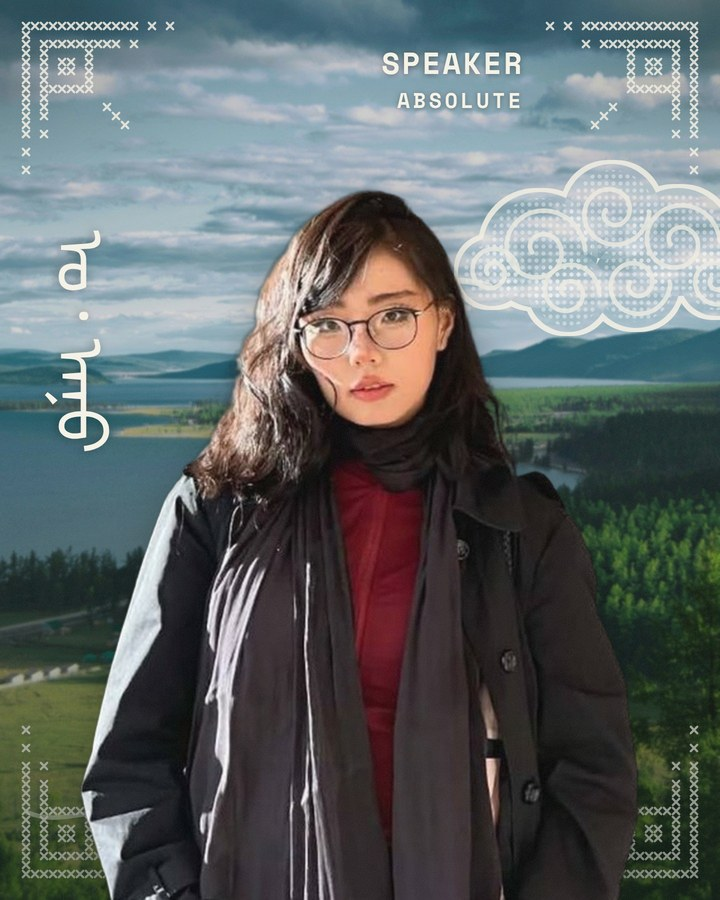
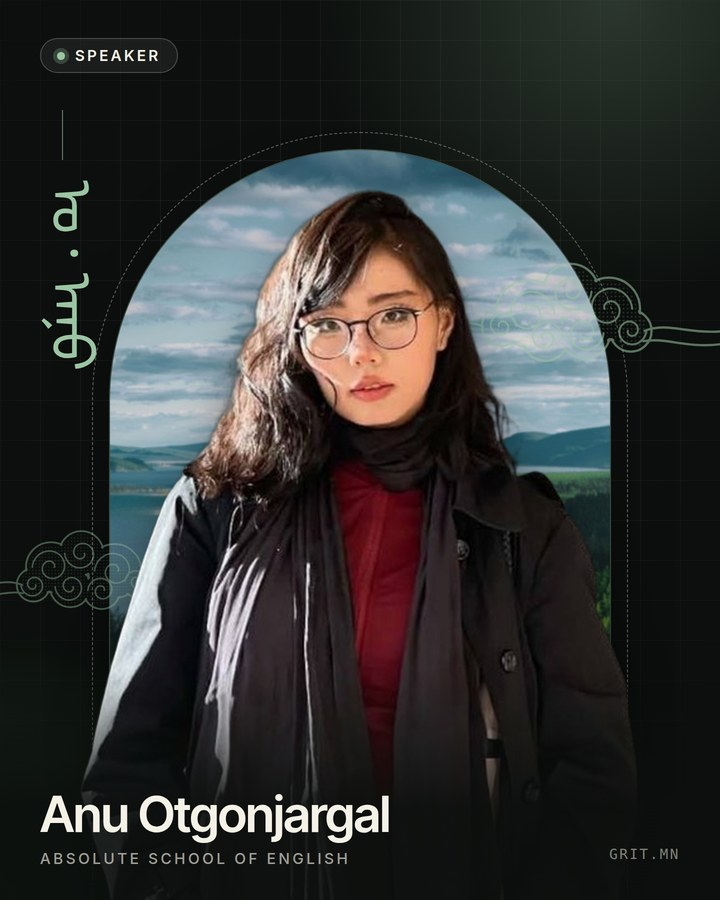
Team and speaker cards: new site-matched design (dark green panel, arch window, Inter Tight name, role pill)
Claude-Session: https://claude.ai/code/session_015w2YeaPuoH2UidzmstFP66

diff --git a/index.html b/index.html
@@ -273,7 +273,7 @@
       <div class="marquee speakers-row" data-reveal>
         <div class="speaker">
           <div class="speaker__photo">
-            <img src="assets/img/speaker-urangoo.jpg?v=6" alt="Urangoo Shinedelger" loading="lazy">
+            <img src="assets/img/speaker-urangoo.jpg?v=10" alt="Urangoo Shinedelger" loading="lazy">
             <span class="speaker__school"><img src="assets/img/schools/stanford.svg" alt="Stanford University"></span>
           </div>
           <p class="speaker__name">Urangoo Shinedelger</p>
@@ -281,7 +281,7 @@
         </div>
         <div class="speaker">
           <div class="speaker__photo">
-            <img src="assets/img/speaker-garid.jpg?v=6" alt="Garid Mendbayar" loading="lazy">
+            <img src="assets/img/speaker-garid.jpg?v=10" alt="Garid Mendbayar" loading="lazy">
             <span class="speaker__school"><img src="assets/img/schools/vanderbilt.png?v=3" alt="Vanderbilt University"></span>
           </div>
           <p class="speaker__name">Garid Mendbayar</p>
@@ -289,7 +289,7 @@
         </div>
         <div class="speaker">
           <div class="speaker__photo">
-            <img src="assets/img/speaker-bayarmaa.jpg?v=6" alt="Bayarmaa Altankhishig" loading="lazy">
+            <img src="assets/img/speaker-bayarmaa.jpg?v=10" alt="Bayarmaa Altankhishig" loading="lazy">
             <span class="speaker__school"><img src="assets/img/schools/bocconi.png" alt="Bocconi University"></span>
           </div>
           <p class="speaker__name">Bayarmaa Altankhishig</p>
@@ -297,7 +297,7 @@
         </div>
         <div class="speaker">
           <div class="speaker__photo">
-            <img src="assets/img/speaker-anar.jpg?v=6" alt="Anar Battogtokh" loading="lazy">
+            <img src="assets/img/speaker-anar.jpg?v=10" alt="Anar Battogtokh" loading="lazy">
             <span class="speaker__school"><img src="assets/img/schools/cornell.svg" alt="Cornell University"></span>
           </div>
           <p class="speaker__name">Anar Battogtokh</p>
@@ -305,7 +305,7 @@
         </div>
         <div class="speaker">
           <div class="speaker__photo">
-            <img src="assets/img/speaker-tsolmon.jpg?v=6" alt="Tsolmon Baasantsogt" loading="lazy">
+            <img src="assets/img/speaker-tsolmon.jpg?v=10" alt="Tsolmon Baasantsogt" loading="lazy">
             <span class="speaker__school"><img src="assets/img/schools/yonsei.png?v=2" alt="Yonsei University"></span>
           </div>
           <p class="speaker__name">Tsolmon Baasantsogt</p>
@@ -313,7 +313,7 @@
         </div>
         <div class="speaker">
           <div class="speaker__photo">
-            <img src="assets/img/speaker-tulga.jpg?v=6" alt="Tulga Bayarnyam" loading="lazy">
+            <img src="assets/img/speaker-tulga.jpg?v=10" alt="Tulga Bayarnyam" loading="lazy">
             <span class="speaker__school"><img src="assets/img/schools/skku.png?v=2" alt="Sungkyunkwan University"></span>
           </div>
           <p class="speaker__name">Tulga Bayarnyam</p>
@@ -321,7 +321,7 @@
         </div>
         <div class="speaker">
           <div class="speaker__photo">
-            <img src="assets/img/speaker-anu.jpg?v=6" alt="Anu Otgonjargal" loading="lazy">
+            <img src="assets/img/speaker-anu.jpg?v=10" alt="Anu Otgonjargal" loading="lazy">
             <span class="speaker__school speaker__school--fill"><img src="assets/img/schools/absolute.png" alt="Absolute School of English"></span>
           </div>
           <p class="speaker__name">Anu Otgonjargal</p>
@@ -337,49 +337,49 @@
       </div>
       <div class="marquee" data-reveal>
         <a class="member" href="member.html?m=bayarmagnai">
-          <div class="member__photo"><img src="assets/img/team-bayarmagnai.jpg?v=7" alt="Bayarmagnai Usukhgerel, Founder of GRIT" loading="lazy"></div>
+          <div class="member__photo"><img src="assets/img/team-bayarmagnai.jpg?v=10" alt="Bayarmagnai Usukhgerel, Founder of GRIT" loading="lazy"></div>
           <p class="member__name">Bayarmagnai Usukhgerel</p>
           <p class="member__school">Founder of GRIT</p>
         </a>
         <a class="member" href="member.html?m=namuunbayar">
-          <div class="member__photo"><img src="assets/img/team-1.jpg?v=8" alt="M. Namuunbayar, Graphic Designer, GRIT EDU program" loading="lazy"></div>
+          <div class="member__photo"><img src="assets/img/team-1.jpg?v=10" alt="M. Namuunbayar, Graphic Designer, GRIT EDU program" loading="lazy"></div>
           <p class="member__name">M. Namuunbayar</p>
           <p class="member__school">Graphic Designer, GRIT EDU program</p>
         </a>
         <a class="member" href="member.html?m=anar">
-          <div class="member__photo"><img src="assets/img/team-2.jpg?v=8" alt="B. Anar, Teacher, GRIT EDU program" loading="lazy"></div>
+          <div class="member__photo"><img src="assets/img/team-2.jpg?v=10" alt="B. Anar, Teacher, GRIT EDU program" loading="lazy"></div>
           <p class="member__name">B. Anar</p>
           <p class="member__school">Teacher, GRIT EDU program</p>
         </a>
         <a class="member" href="member.html?m=munkhdalai">
-          <div class="member__photo"><img src="assets/img/team-3.jpg?v=8" alt="B. Munkhdalai, Teacher, GRIT EDU program" loading="lazy"></div>
+          <div class="member__photo"><img src="assets/img/team-3.jpg?v=10" alt="B. Munkhdalai, Teacher, GRIT EDU program" loading="lazy"></div>
           <p class="member__name">B. Munkhdalai</p>
           <p class="member__school">Teacher, GRIT EDU program</p>
         </a>
         <a class="member" href="member.html?m=enkhgerel">
-          <div class="member__photo"><img src="assets/img/team-4.jpg?v=8" alt="O. Enkhgerel, Manager, GRIT EDU program" loading="lazy"></div>
+          <div class="member__photo"><img src="assets/img/team-4.jpg?v=10" alt="O. Enkhgerel, Manager, GRIT EDU program" loading="lazy"></div>
           <p class="member__name">O. Enkhgerel</p>
           <p class="member__school">Manager, GRIT EDU program</p>
         </a>
         <a class="member" href="member.html?m=tulga">
-          <div class="member__photo"><img src="assets/img/team-5.jpg?v=8" alt="B. Tulga, Teacher, GRIT EDU program" loading="lazy"></div>
+          <div class="member__photo"><img src="assets/img/team-5.jpg?v=10" alt="B. Tulga, Teacher, GRIT EDU program" loading="lazy"></div>
           <p class="member__name">B. Tulga</p>
           <p class="member__school">Teacher, GRIT EDU program</p>
         </a>
         <!-- hidden for now
         <a class="member" href="member.html?m=batzorigt">
-          <div class="member__photo"><img src="assets/img/team-batzorigt.jpg?v=6" alt="G. Batzorigt, Teacher, GRIT EDU program" loading="lazy"></div>
+          <div class="member__photo"><img src="assets/img/team-batzorigt.jpg?v=10" alt="G. Batzorigt, Teacher, GRIT EDU program" loading="lazy"></div>
           <p class="member__name">G. Batzorigt</p>
           <p class="member__school">Teacher, GRIT EDU program</p>
         </a>
         -->
         <a class="member" href="member.html?m=nomin">
-          <div class="member__photo"><img src="assets/img/team-nomin.jpg?v=8" alt="B. Nomin, Teacher, GRIT EDU program" loading="lazy"></div>
+          <div class="member__photo"><img src="assets/img/team-nomin.jpg?v=10" alt="B. Nomin, Teacher, GRIT EDU program" loading="lazy"></div>
           <p class="member__name">B. Nomin</p>
           <p class="member__school">Teacher, GRIT EDU program</p>
         </a>
         <a class="member" href="member.html?m=namuun">
-          <div class="member__photo"><img src="assets/img/team-namuun.jpg?v=9" alt="J. Namuun, Teacher, GRIT EDU program" loading="lazy"></div>
+          <div class="member__photo"><img src="assets/img/team-namuun.jpg?v=10" alt="J. Namuun, Teacher, GRIT EDU program" loading="lazy"></div>
           <p class="member__name">J. Namuun</p>
           <p class="member__school">Teacher, GRIT EDU program</p>
         </a>

diff --git a/js/team.js b/js/team.js
@@ -4,63 +4,63 @@ const TEAM = {
   bayarmagnai: {
     name: "Bayarmagnai Usukhgerel",
     role: "Founder of GRIT",
-    photo: "assets/img/team-bayarmagnai.jpg?v=7",
+    photo: "assets/img/team-bayarmagnai.jpg?v=10",
     responsibilities: "Program lead: finance, organization, university application classes",
     bio: [],
   },
   namuunbayar: {
     name: "M. Namuunbayar",
     role: "Graphic Designer",
-    photo: "assets/img/team-1.jpg?v=8",
+    photo: "assets/img/team-1.jpg?v=10",
     responsibilities: "Design and content",
     bio: [],
   },
   anar: {
     name: "B. Anar",
     role: "Teacher",
-    photo: "assets/img/team-2.jpg?v=8",
+    photo: "assets/img/team-2.jpg?v=10",
     responsibilities: "Teaching",
     bio: [],
   },
   munkhdalai: {
     name: "B. Munkhdalai",
     role: "English Teacher",
-    photo: "assets/img/team-3.jpg?v=8",
+    photo: "assets/img/team-3.jpg?v=10",
     responsibilities: "English, country information",
     bio: [],
   },
   enkhgerel: {
     name: "O. Enkhgerel",
     role: "Program Manager",
-    photo: "assets/img/team-4.jpg?v=8",
+    photo: "assets/img/team-4.jpg?v=10",
     responsibilities: "Organization, country information",
     bio: [],
   },
   tulga: {
     name: "B. Tulga",
     role: "English Teacher",
-    photo: "assets/img/team-5.jpg?v=8",
+    photo: "assets/img/team-5.jpg?v=10",
     responsibilities: "English, cooking",
     bio: [],
   },
   batzorigt: {
     name: "G. Batzorigt",
     role: "Teacher",
-    photo: "assets/img/team-batzorigt.jpg?v=6",
+    photo: "assets/img/team-batzorigt.jpg?v=10",
     responsibilities: "Teaching",
     bio: [],
   },
   nomin: {
     name: "B. Nomin",
     role: "Teacher",
-    photo: "assets/img/team-nomin.jpg?v=8",
+    photo: "assets/img/team-nomin.jpg?v=10",
     responsibilities: "English, country information",
     bio: [],
   },
   namuun: {
     name: "J. Namuun",
     role: "Teacher",
-    photo: "assets/img/team-namuun.jpg?v=9",
+    photo: "assets/img/team-namuun.jpg?v=10",
     responsibilities: "University applications, country information",
     bio: [],
   },

diff --git a/member.html b/member.html
@@ -57,7 +57,7 @@
 
   <main>
     <section class="container profile" id="profile">
-      <div class="profile__photo" data-reveal><img id="member-photo" src="assets/img/team-1.jpg?v=8" alt=""></div>
+      <div class="profile__photo" data-reveal><img id="member-photo" src="assets/img/team-1.jpg?v=10" alt=""></div>
       <div>
         <p class="eyebrow" data-reveal>GRIT team · GRIT EDU program</p>
         <h1 class="profile__name" id="member-name" data-reveal>M. Namuunbayar</h1>
